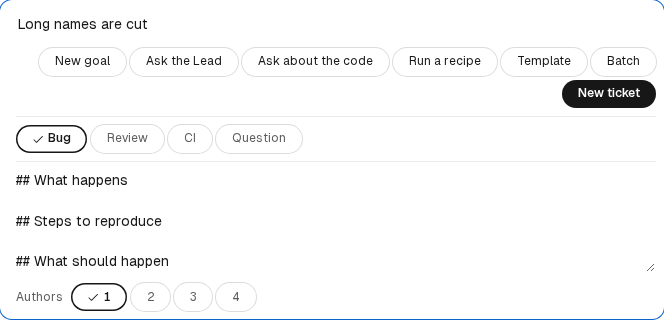
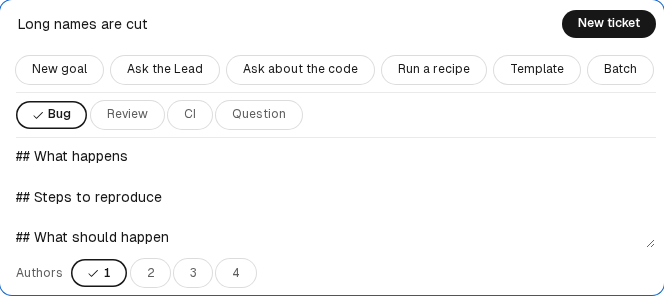
v2 P214: Review and Question end in a commit; New ticket keeps the field's row
A branch with no commit of its own is not published and the ticket is
put back (workspace/publish.ts, refusal empty): Review now fixes the
findings within reach, each with a test, and Question writes its answer
where the next reader looks. From the tower's 980-pixel step the field
and New ticket keep the first row and the other actions go under it, so
New ticket no longer ends alone on a line at 768 and 900 pixels.
Captures taken again.

diff --git a/v2/app/web/screens/tower/tower.css b/v2/app/web/screens/tower/tower.css
@@ -151,23 +151,25 @@
   .tower { grid-template-columns: minmax(0, 1fr); }
   .tower-side { display: grid; grid-template-columns: repeat(2, minmax(0, 1fr)); align-items: start; gap: var(--space-4); }
   .tower-side > :first-child { grid-column: 1 / -1; }
-}
-@container tower (max-width: 560px) {
-  .tower-side { grid-template-columns: minmax(0, 1fr); }
-  /* The actions wrap under the field, New ticket at the end of their line; Ask about the code and Run a
-     recipe stay in the palette (Ctrl-K or the top bar's search), so the bar is two lines at most. */
-  .ask-actions [data-bar="ask"], .ask-actions [data-bar="recipe"] { display: none; }
-  /* A phone keeps the field and New ticket on one row (lane 38): a goal and the lead are the next block down and
-     in the palette. */
-  .ask-actions [data-lead] { display: none; }
-  /* Template and Batch (P214) would leave the field a few letters: they take the next line, the field and
-     New ticket keep theirs, and what the bar opens comes under them. */
+  /* Once the actions no longer fit beside the field (P214's Template chip made it sooner), the field and New
+     ticket keep the first row, the other actions take the lines under it, and what the bar opens comes after.
+     The empty full-width item ends the first row, so no chip climbs beside New ticket; its negative margin
+     takes back the gap of the line it makes. */
   .ask { flex-wrap: wrap; }
   .ask input { flex: 1 1 160px; }
   .ask-actions { display: contents; }
   .ask-actions .primary { order: 1; }
-  .ask-actions [data-bar] { order: 2; }
+  .ask::after { content: ""; order: 1; flex-basis: 100%; height: 0; margin-top: calc(-1 * var(--space-2)); }
+  .ask-actions [data-bar], .ask-actions [data-lead] { order: 2; }
   .ask-templates, .ask textarea, .ask-services, .ask-variants { order: 3; }
+}
+@container tower (max-width: 560px) {
+  .tower-side { grid-template-columns: minmax(0, 1fr); }
+  /* Ask about the code and Run a recipe stay in the palette (Ctrl-K or the top bar's search). */
+  .ask-actions [data-bar="ask"], .ask-actions [data-bar="recipe"] { display: none; }
+  /* A phone keeps the field and New ticket on one row (lane 38): a goal and the lead are the next block down and
+     in the palette. */
+  .ask-actions [data-lead] { display: none; }
 }
 /* the rows, by the width of their own column */
 @container rows (max-width: 720px) {

diff --git a/v2/app/web/test/tower-templates.test.tsx b/v2/app/web/test/tower-templates.test.tsx
@@ -57,7 +57,10 @@ test('each template\'s sections, in both languages, from the catalogs', () => {
   assert.match(templateBody('bug', en), /## Steps to reproduce/);
   assert.match(templateBody('bug', fr), /## Étapes pour reproduire/);
   assert.match(templateBody('ci', en), /No test skipped or removed/);
-  assert.match(templateBody('question', fr), /Aucun changement du code/);
+  // A branch with no commit is not published (workspace/publish.ts): Review fixes what it can, Question writes its answer down.
+  assert.match(templateBody('review', en), /fixed on this branch, each with a test/);
+  assert.match(templateBody('question', fr), /là où le prochain lecteur la cherchera/);
+  for (const template of TICKET_TEMPLATES) assert.doesNotMatch(templateBody(template, en), /No change to the code/i, template);
   assert.equal(templateBody('review', sentinel), '«template_review_body»');
 });
 
